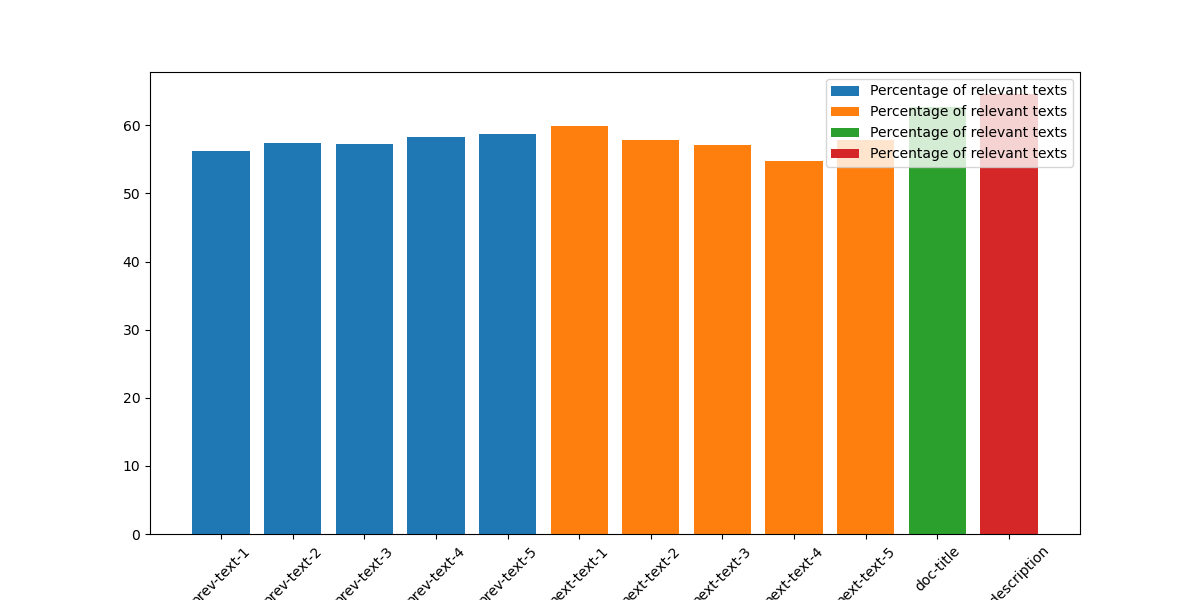
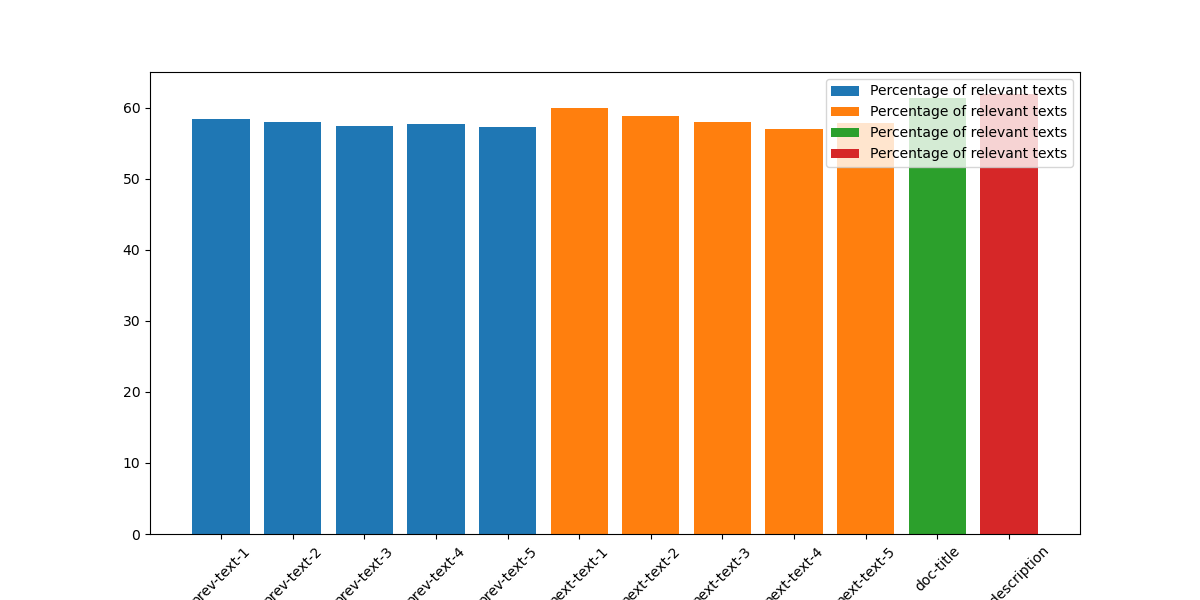
feat: new 1000 data

diff --git a/role_classifier/context-similarity-experiment.py b/role_classifier/context-similarity-experiment.py
@@ -11,7 +11,7 @@ import os
 json_path = "../scraper/output-aut-en/output-en.json"
 image_dir = "../scraper/output-aut-en/images/"
 result_dir = "./clip_results_fixed"
-number_of_images = 50
+number_of_images = 1000
 threshold = 0.65
 random_seed = 42
 
@@ -116,7 +116,6 @@ for i_image in range(progress, min(number_of_images, len(data))):
 
         # Save the results
         for i, class_caption in enumerate(class_captions):
-            print(f"Image {i_image}, class_caption {i}: {class_caption}")
             if (class_caption != ""):
                 if i < 5:
                     if per[i] > max_similarity["prev-text"]:
@@ -145,10 +144,6 @@ for i_image in range(progress, min(number_of_images, len(data))):
                 evals[i]["num_data"] += 1
 
                 all_similarities.append(per[i])
-            else:
-                print("EMPTY CLASS CAPTION ----------------------------------------------")
-                with open(f"{result_dir}/empty_caption.txt", "w") as f:
-                    f.write(f"Image {i_image}, class_caption {i}: {class_caption}")
 
         # write the results to a file
         with open(f"{result_dir}/results.txt", "w") as f:

diff --git a/role_classifier/graph.py b/role_classifier/graph.py
@@ -3,7 +3,7 @@ import matplotlib.pyplot as plt
 # CONFIG
 json_path = "../scraper/output-aut-en/output-en.json"
 image_dir = "../scraper/output-aut-en/images/"
-result_dir = "./clip_results"
+result_dir = "./clip_results_fixed"
 number_of_images = 500
 threshold = 0.65
 random_seed = 42
